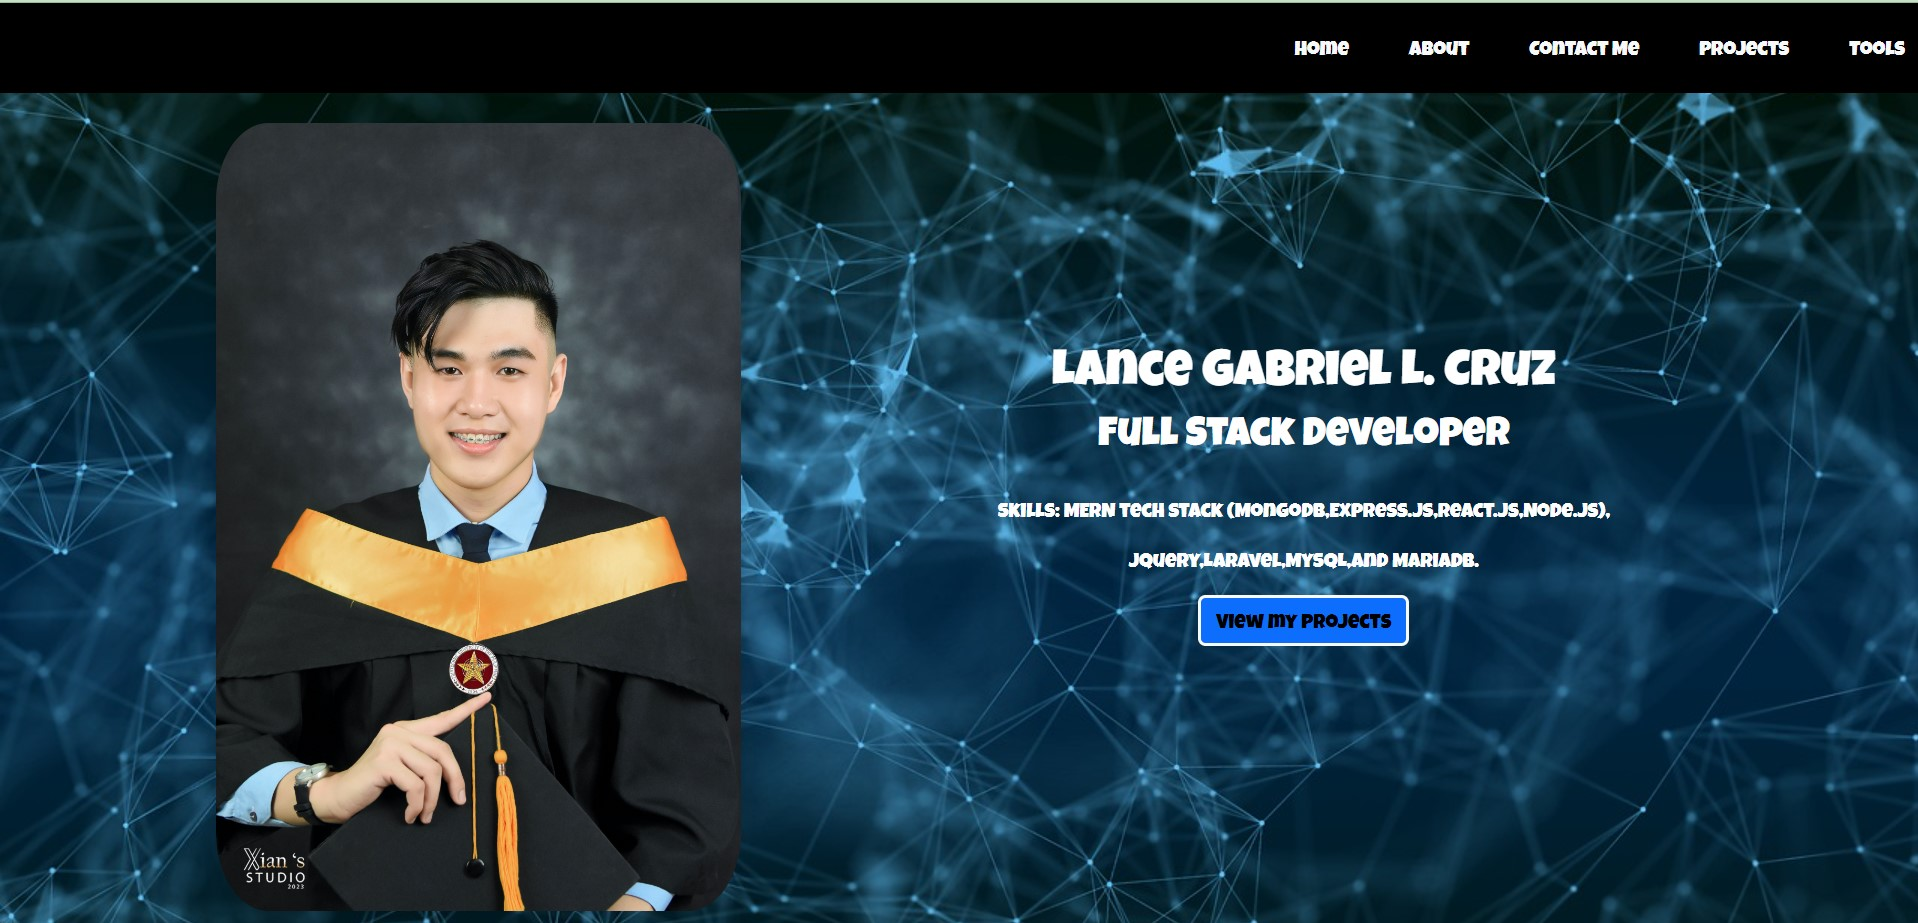
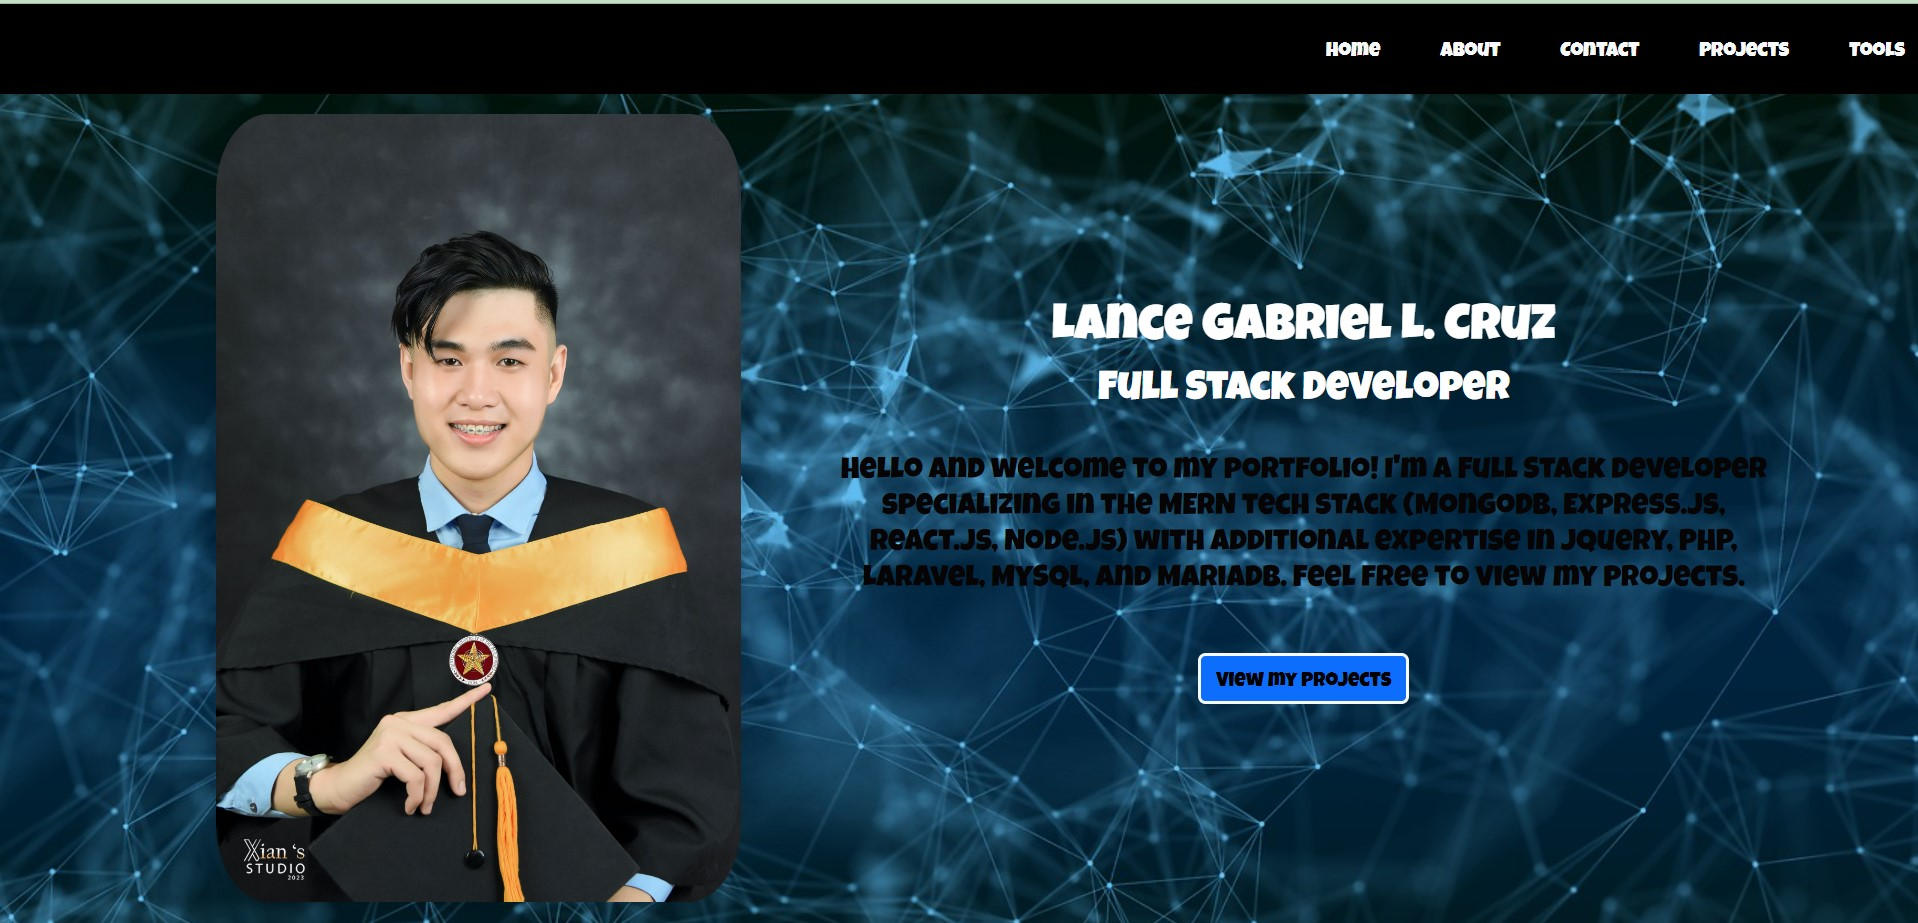
updated the intro in index.html, and updated capstone 1&2 in projects.html

diff --git a/index.html b/index.html
@@ -50,15 +50,16 @@
 <div class="container">				
 	<div class="row align-items-center gy-3">
 		<div class="col-12 col-md-5">
-			<img src="./images/1.jpg" id="me" class="img-fluid mt-4 shadow">
+			<img src="./images/1.jpg" id="me" class="img-fluid my-3 shadow">
 		</div>
 
 		<div class="col-12 col-md-7">
 			<h1>Lance Gabriel L. Cruz</h1>
 			<h2>Full Stack Developer</h2><br>
 				<div>
-					<p class="align-items-left">Skills: MERN tech stack (MongoDB,Express.js,React.js,Node.js),</p>
-					<p class="align-items-left"> Jquery,Laravel,MySQL,and MariaDB.</p>
+					<h4 class="text-center mb-5" id="intro">Hello and welcome to my portfolio! I'm a Full Stack Developer specializing in the MERN tech stack (MongoDB, Express.js, React.js, Node.js) with additional expertise in jQuery, PHP, Laravel, MySQL, and MariaDB. Feel free to view my projects.</h4>
+<!-- 			<p class="text-center mt-3">Skills: MERN tech stack (MongoDB,Express.js,React.js,Node.js),</p>
+					<p class="text-center mb-5"> Jquery,Laravel,MySQL,and MariaDB.</p> -->
 				</div>
 				<div>
 					<a href="./projects.html" class=" border-light border-3 btn btn-primary text-black mt-20 mb-3">View my Projects</a>

diff --git a/projects.html b/projects.html
@@ -66,7 +66,7 @@
 		<div class="col-md-4">
 			<div class="card border border-5 bg-black project-card">
 				<h5 class="card-title text-white">Capstone 2: Ecommerce API</h5>
-				<img src="./images/projectphotos/ECommerceAPI.jpg" class="card-img-top p-2" alt="...">
+				<img src="./images/projectphotos/Capstone2.jpg" class="card-img-top p-2" alt="...">
 				<div class="card-body">
 				<p class="card-text text-white">Created an API using Node.js, Express.js , Tested Using Postman and Deployed to AWS.</p>
 				<p class="card-text text-white">-Used as server in my Capstone 3</p>

diff --git a/index.css b/index.css
@@ -51,6 +51,9 @@ body{
 	border-radius: 10%;
 }
 
+#intro{
+	color: #060505;
+}
 
 hr{
 	background-color: white;
